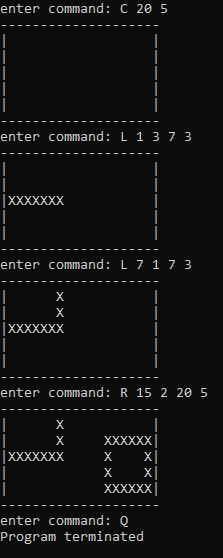
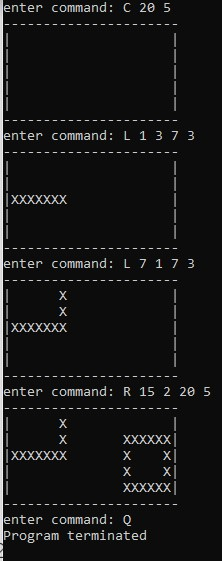
Fix bug, 20 by 5 canvas outputs correct amount of indexes

diff --git a/src/main/java/com/johnc/Canvas.java b/src/main/java/com/johnc/Canvas.java
@@ -26,7 +26,6 @@ public class Canvas {
             for (int i = firstCoordinate; i <= secondCoordinate; i++) {
                 frameArray[i] = "X";
             }
-            buildCanvas(frameArray, sb);
         } else {
             if (y1 < y2) {
                 for (int i = y1; i <= y2; i++) {
@@ -39,8 +38,9 @@ public class Canvas {
                     frameArray[coordinate] = "X";
                 }
             }
-            buildCanvas(frameArray, sb);
         }
+
+        buildCanvas(frameArray, sb);
     }
 
     public void drawRectangle(Shape shape) {
@@ -50,14 +50,6 @@ public class Canvas {
         int x2 = shape.getX2();
         int y2 = shape.getY2();
         StringBuilder sb = new StringBuilder();
-
-        // Offset index positions if rectangle constructs in second half of canvas
-        if (x2 > (width - 2) / 2) {
-            x2 = x2 - 2;
-            x1 = x1 - 2;
-        } else if (x1 > (width - 2) / 2) {
-            x1 = x1 - 2;
-        }
 
         int rectangleTopX = width * y1 + x1;
         int rectangleTopY = width * y1 + x2;
@@ -75,7 +67,7 @@ public class Canvas {
 
     private void buildCanvas(String[] frameArray, StringBuilder sb) {
         for (int i = 0; i < frameArray.length; i++) {
-            if (i % 20 == 0 && i != 0) {
+            if (i % width == 0 && i != 0) {
                 sb.append("\n");
             }
             sb.append(frameArray[i]);
@@ -127,6 +119,10 @@ public class Canvas {
 
     public String getFrame() {
         return frame;
+    }
+
+    public int getWidth() {
+        return width;
     }
 
     public void setFrame(StringBuilder canvas) {

diff --git a/src/main/java/com/johnc/CanvasService.java b/src/main/java/com/johnc/CanvasService.java
@@ -5,7 +5,7 @@ public class CanvasService {
     private Canvas canvas;
 
     public void createCanvas(int width, int height) {
-        canvas = new Canvas(width, height);
+        canvas = new Canvas(width + 2, height);
     }
 
     public void drawShape(Shape shape) {
@@ -24,7 +24,7 @@ public class CanvasService {
         StringBuilder spaces = new StringBuilder();
 
         // Construct Top of the canvas
-        for (int i = 0; i < 20; i++) {
+        for (int i = 0; i < canvas.getWidth(); i++) {
             canvasTop.append("-");
             canvasBottom.append("-");
             spaces.append(" ");
